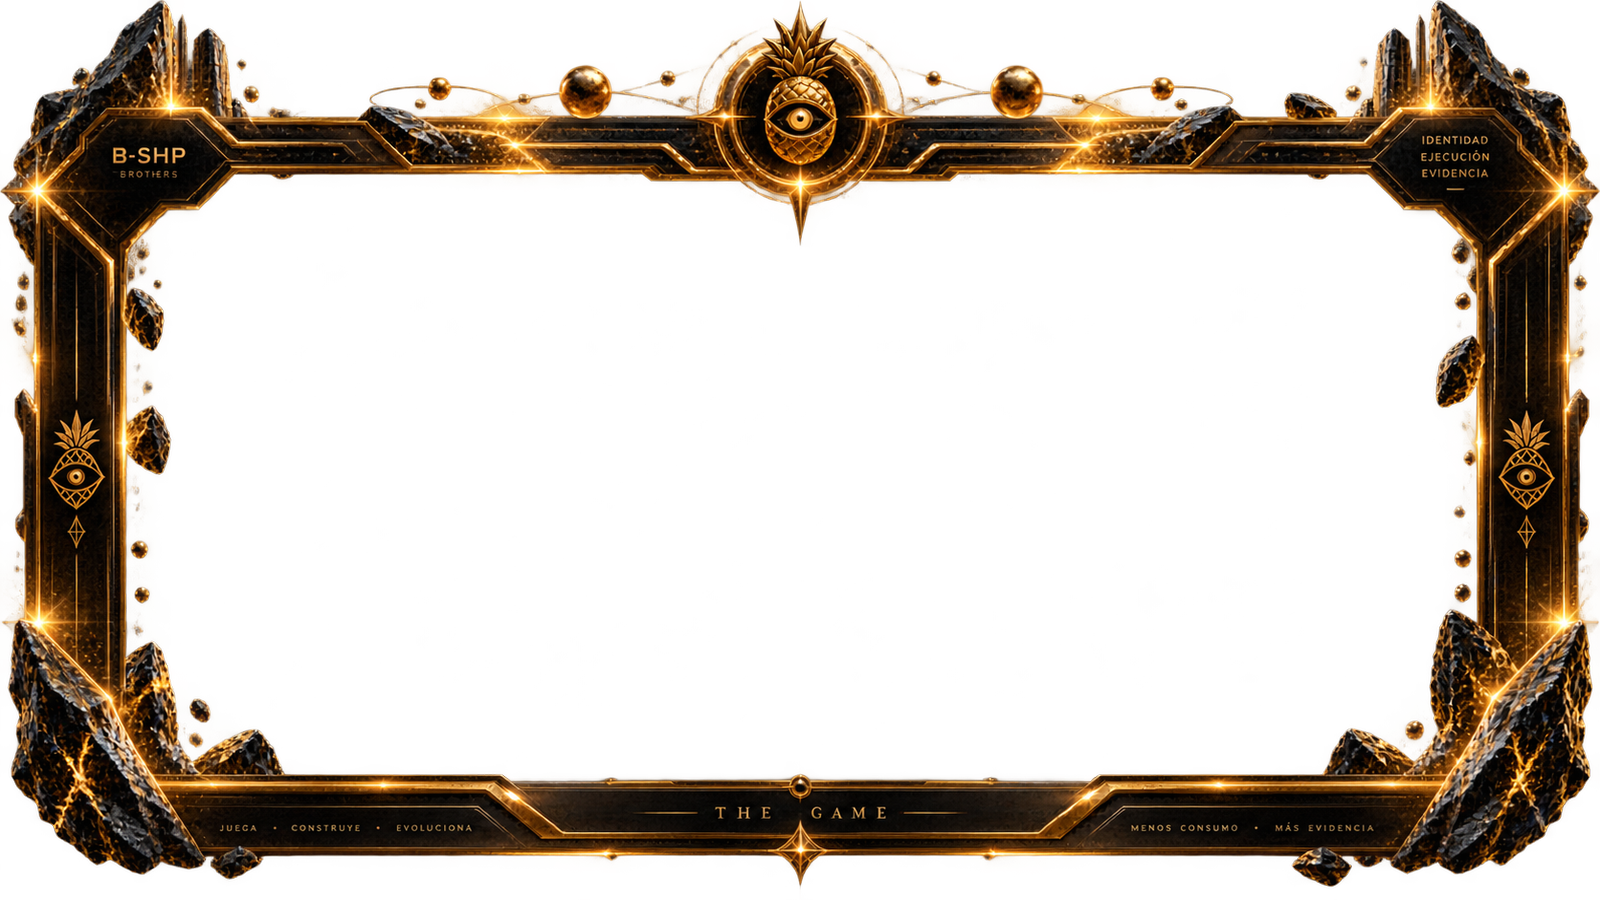
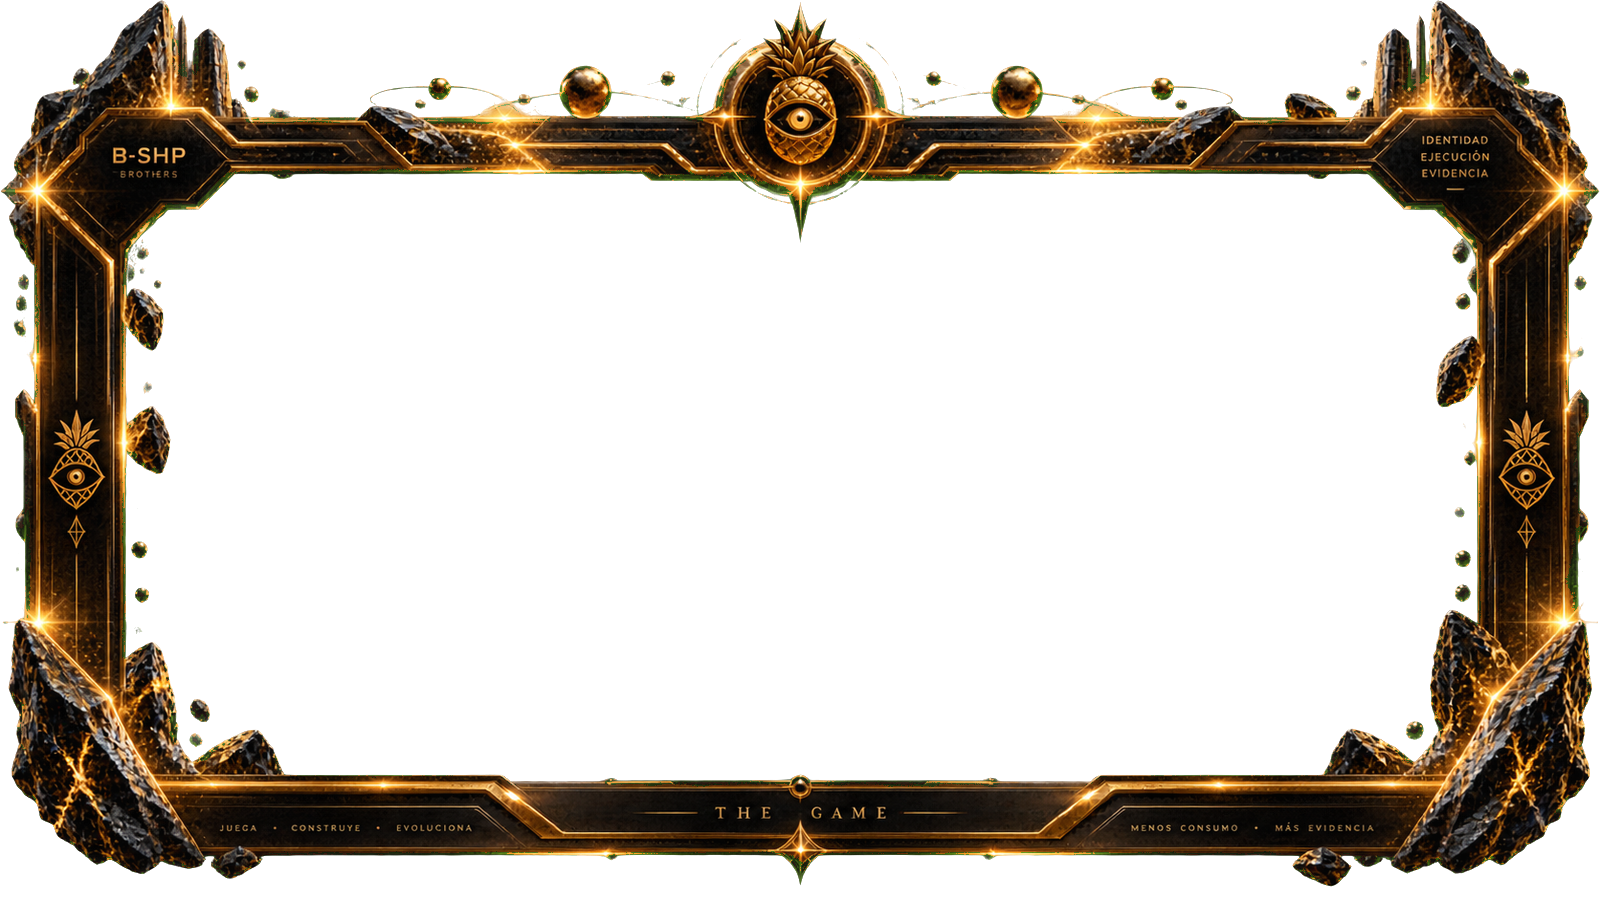
/thegame: las siete correcciones de Fer, y una que él no había visto
Ronda de feedback del cliente (carpeta RECOMENDACIONES/). Nota por nota:

- El logo del nav traía una caja negra pegada. Se regenera desde TIPOGRAFIA.png,
  que sí tiene alfa, y se retira el mix-blend-mode:screen del CSS: existía sólo
  para disimular esa caja.
- El emblema estaba recortado por abajo. Se sustituye por LOGOTRANSP.png, el
  asset oficial completo (oveja + mundo + lockup).
- El altar de la piña era un JPG con fondo marrón: en la página se leía como un
  rectángulo pegado. Ahora es PNG con alfa, fondo hundido a negro y bordes
  fundidos, y sin marco ni sombra de caja (shot--libre).
- El nombre de Fernando Longoria sale del pie del VSL. La sección FOUNDER se
  queda: la pide el copy master, que es el documento FROZEN.
- El pie pasa a "Powered by / AGENTIA LABS", sin punto, como está escrito en el
  logo oficial.

Y el vídeo dentro del marco, que era el arreglo de verdad: el marco se dibujaba
ENCIMA con un desbordamiento fijo, así que sus varillas tapaban ~10 % del vídeo
por lado y ~20 % arriba. Se midió la ventana real de frame.png (1600x900, hueco
en 10,5 % / 19,6 % / 80 % / 66,2 %) y el vídeo se coloca dentro de ella. En
móvil, donde el marco no se pinta, vuelve a ser una caja 16:9.

Lo que nadie había visto: lockup-thegame.png llevaba el cuadriculado gris de
transparencia PINTADO ENCIMA, y salía en dos sitios de la página. Recortado por
luminancia y saturación. De paso, fuera el halo rojo que frame.png arrastraba
del recorte de su fondo.
[…]

diff --git a/web/assets/css/thegame.css b/web/assets/css/thegame.css
@@ -150,7 +150,7 @@ a.hotmart-fb.hotmart__button-checkout.btn{
 .nav.is-stuck::after{opacity:1}
 .nav__in{display:flex;align-items:center;gap:2rem;width:min(100% - 2.6rem,1440px);margin-inline:auto}
 .nav__logo{display:flex;align-items:center;gap:.7rem;flex:0 0 auto}
-.nav__logo img{height:30px;width:auto;mix-blend-mode:screen;filter:drop-shadow(0 2px 10px rgba(212,175,55,.35))}
+.nav__logo img{height:32px;width:auto;filter:drop-shadow(0 2px 10px rgba(212,175,55,.35))}
 .nav__links{display:flex;gap:2.2rem;margin-left:auto}
 .nav__links a{
   font-family:var(--ff-display);font-size:.72rem;font-weight:500;letter-spacing:.2em;text-transform:uppercase;
@@ -329,7 +329,16 @@ a.hotmart-fb.hotmart__button-checkout.btn{
 .player__btn:hover .player__play{transform:scale(1.09)}
 .player__play::after{content:'';width:0;height:0;margin-left:5px;border-left:19px solid #120C00;border-block:12px solid transparent}
 .player.is-playing .player__btn,.player.is-playing .player__poster{opacity:0;pointer-events:none}
-.player__deco{position:absolute;inset:-4.6% -3.4%;pointer-events:none;mix-blend-mode:screen;z-index:3;opacity:.95}
+.player__deco{position:absolute;inset:-4.6% -3.4%;pointer-events:none;z-index:3;opacity:.95}
+/* El marco manda: el vídeo se mete DENTRO de su ventana, no debajo del marco.
+   Medidas tomadas sobre frame.png (1600x900): hueco en 10.5% 19.6% 80% 66.2%. */
+.player--marco .player__stage{aspect-ratio:1600/900}
+.player--marco .player__deco{inset:0;width:100%;height:100%;opacity:1}
+.player--marco .player__frame{
+  position:absolute;left:10.5%;top:19.6%;width:80%;height:66.2%;
+  aspect-ratio:auto;border-radius:0;box-shadow:none;background:#000;
+}
+.player--marco .player__frame video,.player--marco .player__poster{object-fit:cover;object-position:center}
 .player__cap{display:flex;flex-wrap:wrap;justify-content:space-between;gap:1rem;margin-top:1.15rem;font-family:var(--ff-display);font-size:.7rem;letter-spacing:.22em;text-transform:uppercase;color:var(--texto-tenue)}
 .player__cap b{color:var(--oro)}
 
@@ -385,14 +394,14 @@ a.hotmart-fb.hotmart__button-checkout.btn{
 /* ---------- 14. FOOTER ---------- */
 .foot{background:#070707;border-top:1px solid var(--linea);padding:4rem 0 2.2rem}
 .foot__grid{display:grid;grid-template-columns:1.4fr 1fr 1fr 1.2fr;gap:2.6rem}
-.foot__logo{height:42px;width:auto;margin-bottom:1.1rem;mix-blend-mode:screen}
+.foot__logo{height:46px;width:auto;margin-bottom:1.1rem}
 .foot__tag{font-family:var(--ff-serif);font-size:.7rem;letter-spacing:.2em;text-transform:uppercase;color:var(--texto-tenue);line-height:1.9}
 .foot h4{font-family:var(--ff-display);font-size:.72rem;font-weight:600;letter-spacing:.24em;text-transform:uppercase;color:var(--oro);margin-bottom:1.1rem}
 .foot ul{list-style:none;margin:0;padding:0;display:grid;gap:.62rem}
 .foot a{font-size:.86rem;color:var(--texto);transition:color .25s}
 .foot a:hover{color:var(--oro-claro)}
 .foot__bar{display:flex;flex-wrap:wrap;gap:1rem;justify-content:space-between;align-items:center;margin-top:3rem;padding-top:1.6rem;border-top:1px solid rgba(255,255,255,.06);font-size:.74rem;color:var(--texto-tenue)}
-.foot__by{display:flex;align-items:center;gap:.85rem;font-family:var(--ff-display);font-size:.68rem;letter-spacing:.24em;text-transform:uppercase}
+.foot__by{display:flex;flex-direction:column;align-items:flex-start;gap:.35rem;line-height:1.3;font-family:var(--ff-display);font-size:.68rem;letter-spacing:.24em;text-transform:uppercase}
 .foot__by b{font-weight:600;background:linear-gradient(95deg,#E9E9EE,#B9B9C6 40%,#8E5BD6 62%,#D4AF37 100%);-webkit-background-clip:text;background-clip:text;color:transparent;-webkit-text-fill-color:transparent;letter-spacing:.14em}
 .social{display:flex;gap:.7rem}
 .social a{width:34px;height:34px;display:grid;place-items:center;box-shadow:inset 0 0 0 1px var(--linea);border-radius:2px;transition:.3s}
@@ -417,6 +426,7 @@ a.hotmart-fb.hotmart__button-checkout.btn{
 .divider--sm{width:min(80%,340px);opacity:.65}
 .roadmap{width:100%;mix-blend-mode:screen;filter:drop-shadow(0 20px 60px rgba(212,175,55,.25))}
 .shot{border-radius:3px;box-shadow:0 40px 90px -50px rgba(212,175,55,.6),inset 0 0 0 1px var(--linea)}
+.shot--libre{border-radius:0;box-shadow:none;filter:drop-shadow(0 30px 70px rgba(212,175,55,.28))}
 .float{animation:float 7s ease-in-out infinite}
 @keyframes float{0%,100%{transform:translateY(0)}50%{transform:translateY(-14px)}}
 .pina-mark{position:absolute;right:-2%;top:8%;width:min(34%,320px);opacity:.1;pointer-events:none;z-index:1}
@@ -468,6 +478,8 @@ a.hotmart-fb.hotmart__button-checkout.btn{
   .btn{--pad:1rem 1.4rem;width:100%}
   .hero__actions{flex-direction:column;align-items:stretch}
   .player__deco{display:none}
+  .player--marco .player__stage{aspect-ratio:auto}
+  .player--marco .player__frame{position:relative;left:auto;top:auto;width:100%;height:auto;aspect-ratio:16/9;border-radius:3px;box-shadow:0 40px 110px -50px rgba(212,175,55,.5),inset 0 0 0 1px var(--linea)}
 }
 
 @media (prefers-reduced-motion:reduce){

diff --git a/web/thegame/index.html b/web/thegame/index.html
@@ -165,14 +165,14 @@
       <p class="punch punch--oro" data-rv data-rv-d="2">Mira el mundo.<br>Después decide si vas a entrar.</p>
     </div>
 
-    <div class="player" id="playerTrailer" data-rv data-rv-d="2">
+    <div class="player player--marco" id="playerTrailer" data-rv data-rv-d="2">
       <div class="player__stage">
-        <div class="player__frame">
-        <video preload="none" playsinline controls poster="../assets/video/trailer-poster.jpg" data-src="../assets/video/trailer.mp4"></video>
-        <img class="player__poster" src="../assets/video/trailer-poster.jpg" alt="" loading="lazy">
-        <button class="player__btn" aria-label="Reproducir trailer"><span class="player__play"></span></button>
-        </div>
         <img class="player__deco" src="../assets/img/frame.png" alt="" aria-hidden="true" loading="lazy">
+        <div class="player__frame">
+          <video preload="none" playsinline controls poster="../assets/video/trailer-poster.jpg" data-src="../assets/video/trailer.mp4"></video>
+          <img class="player__poster" src="../assets/video/trailer-poster.jpg" alt="" loading="lazy">
+          <button class="player__btn" aria-label="Reproducir trailer"><span class="player__play"></span></button>
+        </div>
       </div>
       <div class="player__cap">
         <span>B-SHP Brothers · <b>Trailer oficial</b></span>
@@ -245,7 +245,7 @@
         <button class="player__btn" aria-label="Reproducir video"><span class="player__play"></span></button>
       </div>
       <div class="player__cap">
-        <span>VSL · <b>Fernando Longoria</b></span>
+        <span>B-SHP Brothers · <b>The Game</b></span>
         <span>Qué es · Por qué existe · Qué vas a hacer</span>
       </div>
     </div>
@@ -393,7 +393,7 @@
   <div class="wrap">
     <div class="split split--rev">
       <div class="split__media" data-rv>
-        <img class="shot" src="../assets/img/altar-pina.jpg" alt="El altar de la piña · símbolo B-SHP" loading="lazy">
+        <img class="shot shot--libre" src="../assets/img/altar-pina.png" alt="El altar de la piña · símbolo B-SHP" loading="lazy">
       </div>
       <div class="stack">
         <p class="eyebrow" data-rv>09 — Bottleneck → Alter Ego</p>
@@ -836,7 +836,7 @@
 
     <div class="foot__bar">
       <span>© 2026 B-SHP BROTHERS. Todos los derechos reservados.</span>
-      <span class="foot__by">Powered by <b>Agent.IA Labs</b></span>
+      <span class="foot__by">Powered by<b>AGENTIA LABS</b></span>
     </div>
   </div>
 </footer>

diff --git a/docs/PROPUESTA-THEGAME.md b/docs/PROPUESTA-THEGAME.md
@@ -128,3 +128,31 @@ Paleta tomada del **Personaje Maestro v1.0**:
 World / Culture · Brothers / Community · Products · CTA "ENTRA AL JUEGO" → `/thegame`.
 Hoy hay un placeholder con el mismo lenguaje visual en `web/index.html`, y la referencia
 que mandaste (`WhatsApp Image 2026-09-03`) ya está incorporada al criterio de diseño.
+
+---
+
+## 8. Ronda de correcciones del cliente · 2026-09-06
+
+Las siete notas que Fer mandó en `RECOMENDACIONES/`, una por una, y qué se hizo con cada una.
+
+| # | Nota del cliente | Qué se hizo |
+|---|---|---|
+| 1 | *"Bshop es bshp sin la O"* | En el código no había ni una sola aparición de «bshop»: el error está **en el nombre del sitio de Netlify** (`b-shopbrothers.netlify.app`). Se renombra en Netlify → *Site configuration › Change site name* → `bshpbrothers`. **No es algo que se arregle en el repo.** |
+| 2 | *"…y dejaría este completo con el logo"* (círculo sobre el emblema oveja+mundo) | Se sustituyó `logo-emblem.png` —que estaba **recortado por abajo**— por el asset oficial completo `LOGOTRANSP.png` (oveja + mundo + lockup «B-SHP BROTHERS»), ya transparente. Es el favicon y el logo grande del splash de la home. |
+| 3 | *"Si puedes quítale el fondo"* (logo del nav) | El `logo-wordmark.png` traía una **caja negra pegada**. Se regeneró desde `TIPOGRAFIA.png`, que sí es transparente. De paso se quitó el `mix-blend-mode:screen` del CSS, que era el apaño que existía sólo para disimular esa caja. |
+| 4 | *"estos en teoría son transp — si no REMOVE FONDO"* | Comprobados uno a uno con `ffprobe`: `LOGOTRANSP.png` y `TIPOGRAFIA.png` **sí** tenían alfa; `LOGOBSHP.png` no (por eso se descartó). Y apareció uno que nadie había visto: **`lockup-thegame.png` llevaba el cuadriculado gris de transparencia *pintado encima*** — se veía como un tablero de ajedrez detrás del logo en dos sitios de la página. Se recortó el fondo por luminancia + saturación. |
+| 5 | *"Este… centrar bien el video dentro del marco"* | El marco dorado se dibujaba **por encima** del vídeo con un desbordamiento fijo, así que sus varillas tapaban ~10 % del vídeo por cada lado y ~20 % arriba. Se midió la ventana real de `frame.png` (1600×900 → hueco en 10,5 % / 19,6 % / 80 % / 66,2 %) y ahora **el vídeo se coloca dentro de esa ventana**, centrado y entero (`object-fit:contain`). En móvil, donde el marco no se pinta, el reproductor vuelve a ser una caja 16:9 normal. Además se limpió el **halo rojo** que traía el PNG del marco (resto del recorte del fondo). |
+| 6 | *"Este igual no debería tener fondo"* (el altar de la piña) | Era un JPG con fondo marrón-dorado: en la página se leía como un **rectángulo pegado**. Se generó `altar-pina.png` con alfa: fondo hundido a negro y bordes fundidos, así que ahora flota sobre el negro de la página. También se le quitó el marco y la sombra de caja (`shot--libre`). |
+| 7 | *"quitar el nombre de Fernando Longoria"* | Quitado del pie del reproductor del VSL, que ahora dice **«B-SHP Brothers · The Game»**. |
+| 8 | *"Hasta abajo en powered by AGENTIA quítale el ."* | El pie decía «Powered by Agent.IA Labs». Ahora dice **«Powered by / AGENTIA LABS»** en dos líneas y sin punto, que es como está escrita la marca en el logo oficial (`d7685114…png`) y en el banner del Drive. |
+
+### Dos cosas que conviene que Fer confirme de esta ronda
+
+- **El nombre en la sección FOUNDER se ha dejado.** La nota decía *"quitar el nombre de
+  Fernando Longoria"* y la marca verde estaba sobre el pie del vídeo, así que se quitó ahí.
+  Pero el copy master (`fer.txt`, documento FROZEN) tiene una sección entera —la 17— titulada
+  **FERNANDO LONGORIA**, y quitarla sería quitar el «por qué existe B-SHP». **Sigue en la
+  página.** Si también hay que borrarla, es un minuto.
+- **«AGENTIA» sin punto.** La nota dice «quítale el .» y a la vez escribe «Agent.IA Lab»
+  con punto. Se optó por lo que dice el logo oficial: **AGENTIA LABS**, sin punto. Si la
+  marca es «Agent.IA Lab», se cambia igual de rápido.
